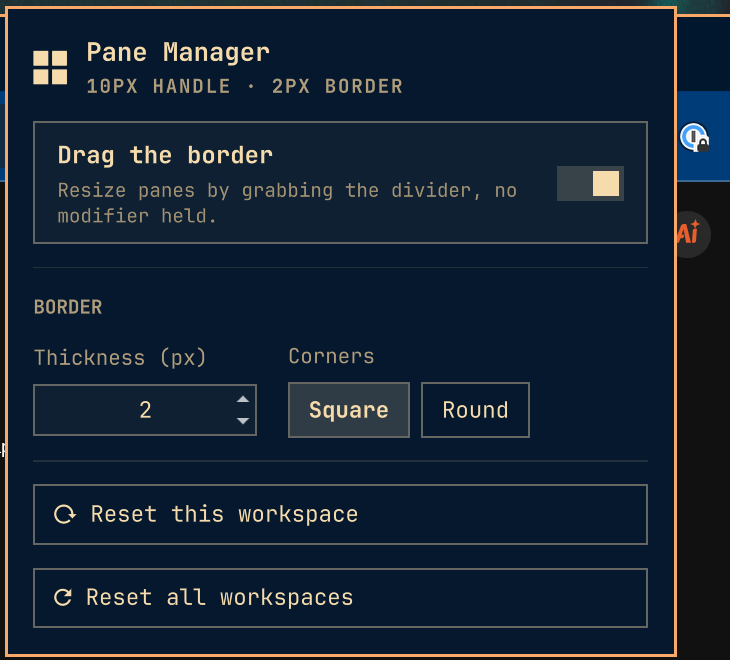
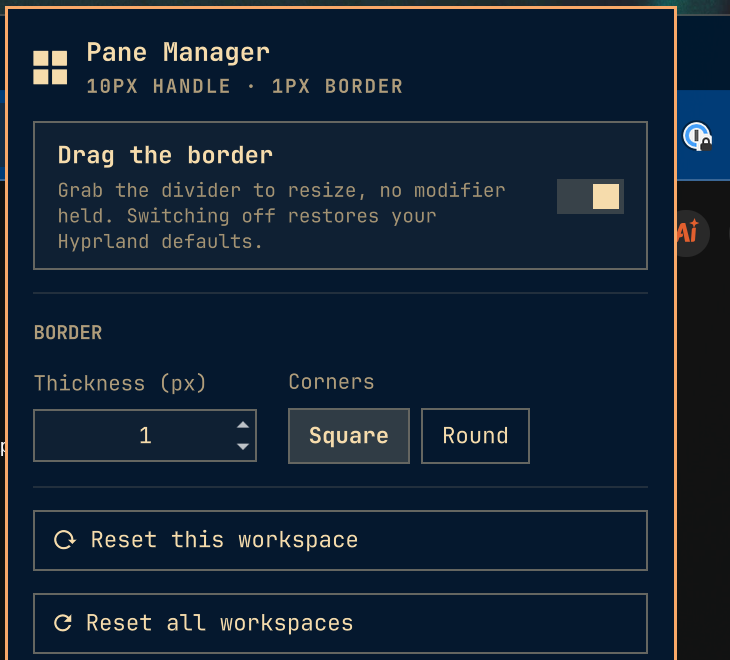
Toggle description spells out what switching off restores

diff --git a/PaneManager.qml b/PaneManager.qml
@@ -183,8 +183,12 @@ Panel {
 
         Toggle {
           Layout.fillWidth: true
+          // The switch carries the state; the description carries what switching
+          // off does, which is more than clearing a flag.
           label: "Drag the border"
-          description: "Resize panes by grabbing the divider, no modifier held."
+          description: root.dragEnabled
+            ? "Grab the divider to resize, no modifier held. Switching off restores your Hyprland defaults."
+            : "Only SUPER + right drag resizes. Switching on uses a " + root.grabArea + "px handle; switching off restores your Hyprland defaults."
           checked: root.dragEnabled
           enabled: !root.busy
           foreground: root.barForeground
